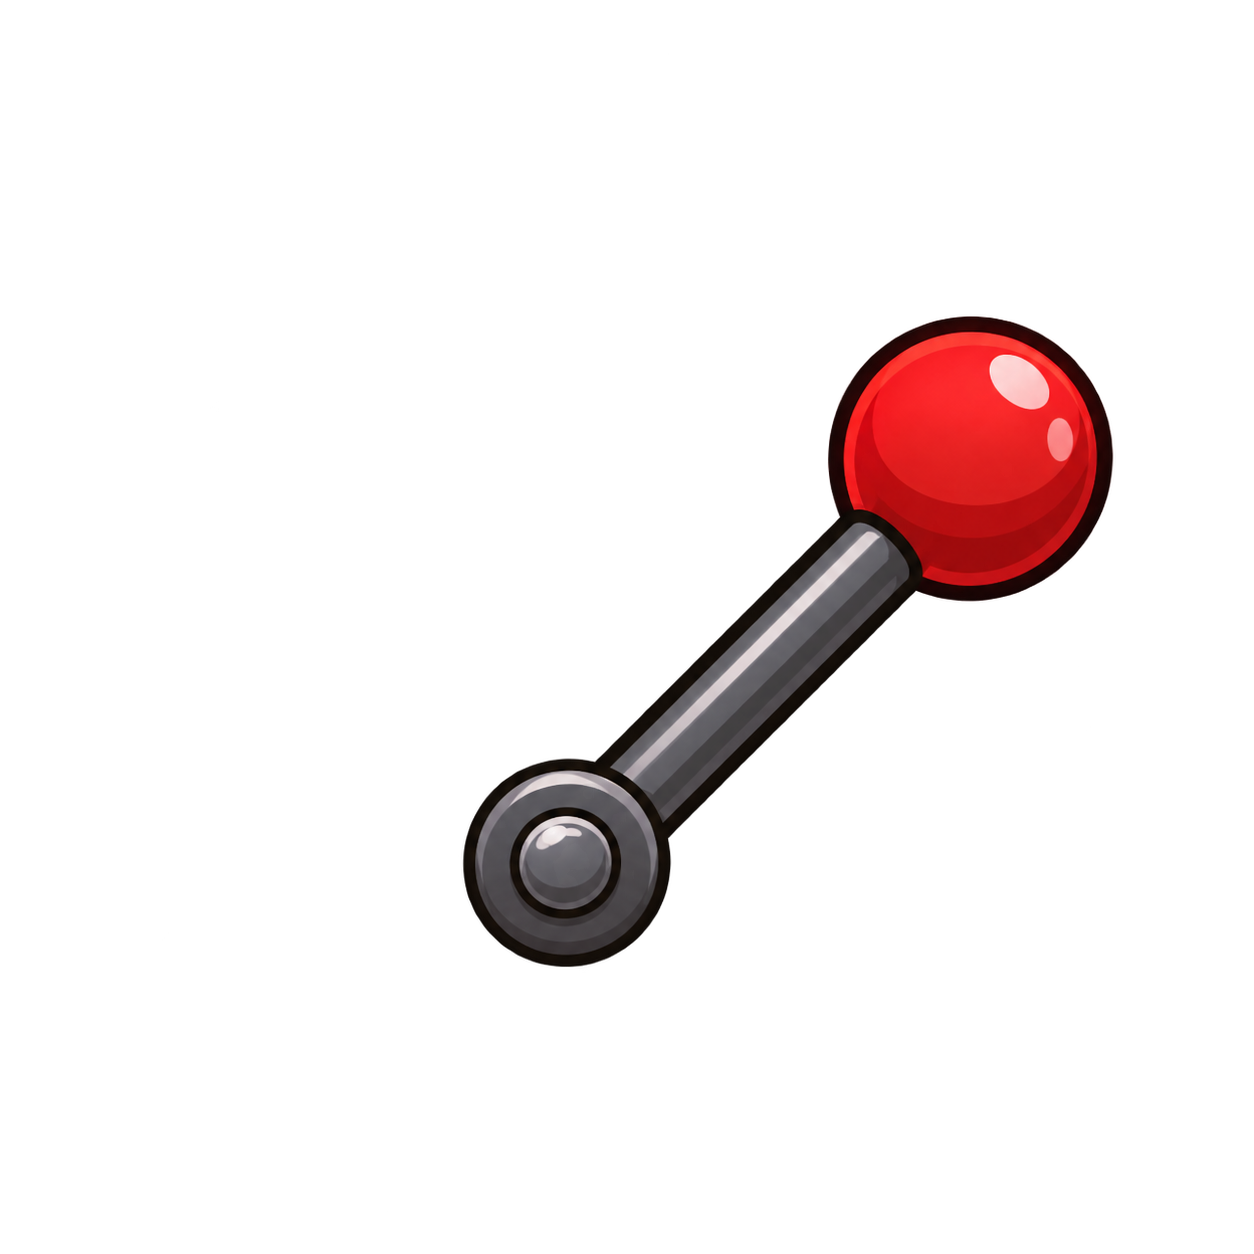
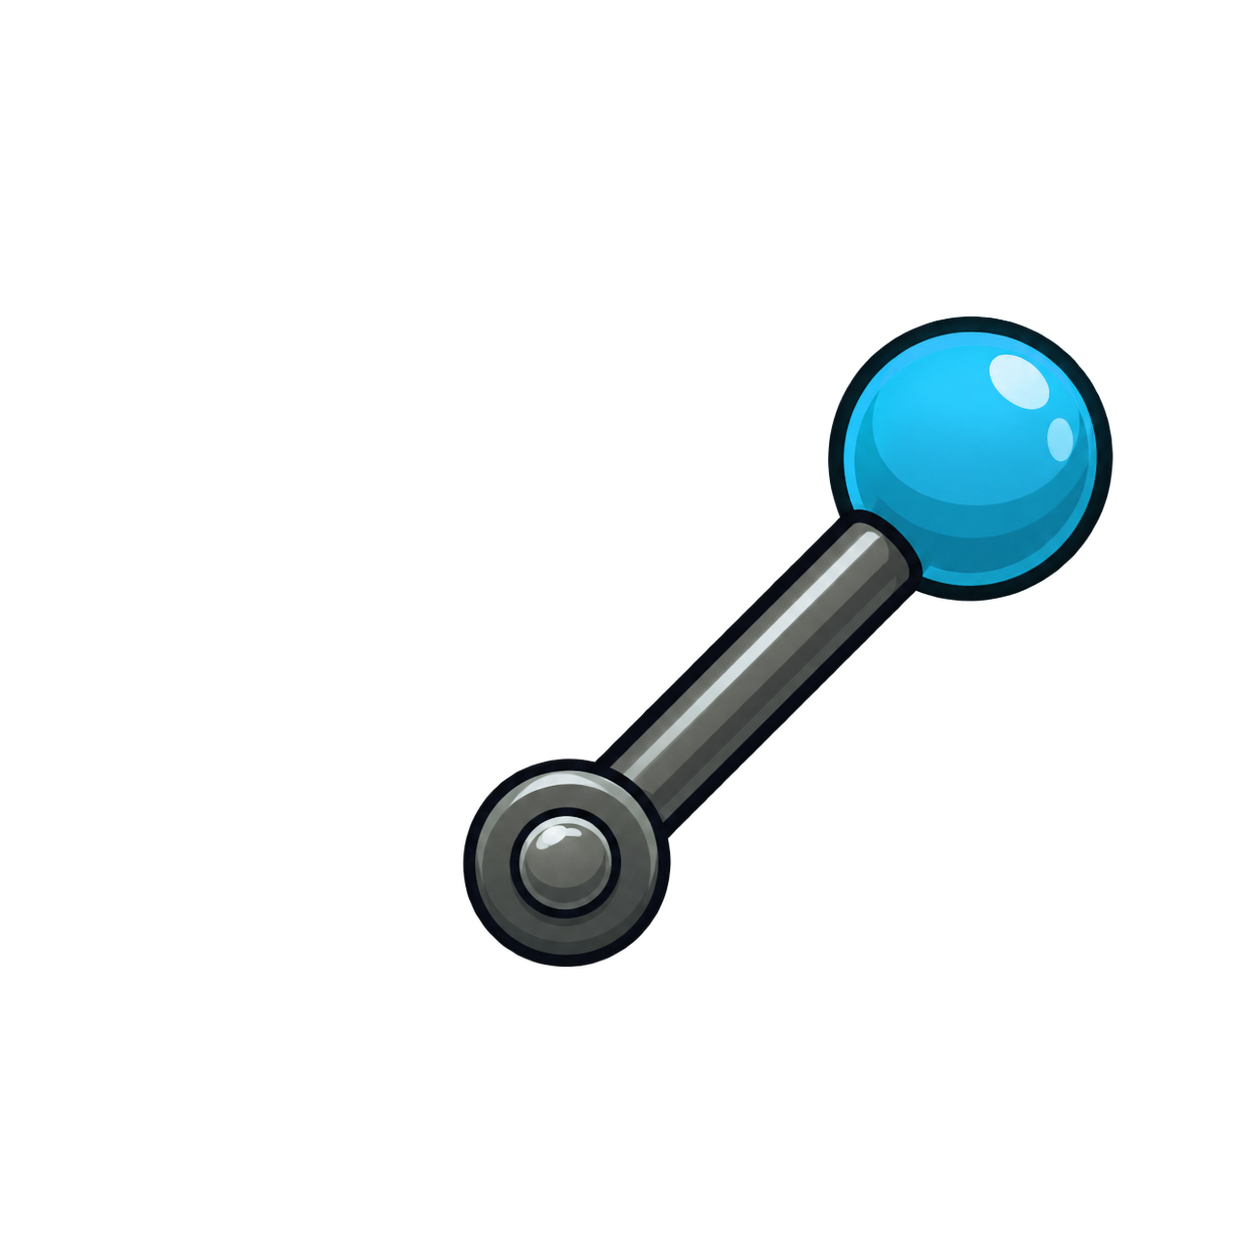
feat(presentation): réserve le rouge à la balle de l'objectif (U19)

Changed region(s): [[0.6531, 0.2488, 0.9019, 0.4665]]

diff --git a/src/presentation/wire-renderer.test.ts b/src/presentation/wire-renderer.test.ts
@@ -1,0 +1,119 @@
+import { describe, expect, it } from 'vitest';
+import type { ProjectedWire } from './control-wires';
+import { drawWireLabels, drawWires, type WireCanvas } from './wire-renderer';
+
+/** Median colour of the goal ball (`ball-base@2x.png`) and of the board (`board-generic-v0.png`). */
+const GOAL_BALL_RED = { r: 222, g: 17, b: 17 };
+const CREAM_BOARD = { r: 250, g: 234, b: 208 };
+const PALETTE_PROBE = 12;
+
+type Rgb = typeof GOAL_BALL_RED;
+
+const parseHex = (hex: string): Rgb => {
+  const match = /^#([0-9a-f]{2})([0-9a-f]{2})([0-9a-f]{2})$/i.exec(hex);
+  if (match === null) throw new Error(`Couleur inattendue : ${hex}`);
+  const [, r = '', g = '', b = ''] = match;
+  return { r: parseInt(r, 16), g: parseInt(g, 16), b: parseInt(b, 16) };
+};
+
+const hueDegrees = ({ r, g, b }: Rgb): number => {
+  const max = Math.max(r, g, b);
+  const delta = max - Math.min(r, g, b);
+  if (delta === 0) return 0;
+  const sector =
+    max === r ? ((g - b) / delta + 6) % 6 : max === g ? (b - r) / delta + 2 : (r - g) / delta + 4;
+  return sector * 60;
+};
+
+const hueDistance = (left: Rgb, right: Rgb): number => {
+  const difference = Math.abs(hueDegrees(left) - hueDegrees(right)) % 360;
+  return Math.min(difference, 360 - difference);
+};
+
+const luminance = ({ r, g, b }: Rgb): number => {
+  const linear = (channel: number): number => {
+    const value = channel / 255;
+    return value <= 0.03928 ? value / 12.92 : ((value + 0.055) / 1.055) ** 2.4;
+  };
+  return 0.2126 * linear(r) + 0.7152 * linear(g) + 0.0722 * linear(b);
+};
+
+const contrast = (left: Rgb, right: Rgb): number => {
+  const [light, dark] = [luminance(left), luminance(right)].sort((a, b) => b - a);
+  return ((light ?? 0) + 0.05) / ((dark ?? 0) + 0.05);
+};
+
+/** Records the core colour of each wire and the badge colour of each label. */
+const recordingCanvas = (): { readonly canvas: WireCanvas; readonly colours: string[] } => {
+  const colours: string[] = [];
+  const canvas: WireCanvas = {
+    globalAlpha: 1,
+    strokeStyle: '',
+    fillStyle: '',
+    lineWidth: 1,
+    lineCap: 'butt',
+    font: '',
+    textAlign: 'start',
+    textBaseline: 'alphabetic',
+    save: () => undefined,
+    restore: () => undefined,
+    beginPath: () => undefined,
+    moveTo: () => undefined,
+    lineTo: () => undefined,
+    arc: () => undefined,
+    stroke: () => {
+      // The casing is the wider, dark stroke; the circuit colour is the core.
+      if (canvas.lineWidth < 3) colours.push(canvas.strokeStyle);
+    },
+    fill: () => {
+      colours.push(canvas.fillStyle);
+    },
+    fillText: () => undefined,
+  };
+  return { canvas, colours };
+};
+
+const circuitColours = (): readonly string[] => {
+  const wires: ProjectedWire[] = Array.from({ length: PALETTE_PROBE }, (_, circuitIndex) => ({
+    id: `wire-${String(circuitIndex)}`,
+    sourceId: `lever-${String(circuitIndex)}`,
+    targetId: `fan-${String(circuitIndex)}`,
+    circuitIndex,
+    label: 'A',
+    from: { x: 0, y: 0 },
+    to: { x: 1, y: 0 },
+  }));
+  const { canvas, colours } = recordingCanvas();
+  const options = { dimmed: false, focusId: undefined };
+  drawWires(canvas, wires, (point) => point, options);
+  drawWireLabels(canvas, wires, (point) => point, options);
+  return [...new Set(colours)];
+};
+
+describe('couleurs des circuits de fils', () => {
+  const palette = circuitColours().map((hex) => [hex, parseHex(hex)] as const);
+
+  it('propose plusieurs couleurs, tracé et pastille de même couleur', () => {
+    expect(palette.length).toBeGreaterThanOrEqual(4);
+  });
+
+  it.each(palette)(
+    '%s ne rappelle pas le rouge réservé à la balle de l’objectif',
+    (_hex, colour) => {
+      expect(hueDistance(colour, GOAL_BALL_RED)).toBeGreaterThanOrEqual(30);
+    },
+  );
+
+  it.each(palette)('%s reste lisible sur le fond crème', (_hex, colour) => {
+    expect(contrast(colour, CREAM_BOARD)).toBeGreaterThanOrEqual(3);
+  });
+
+  it('garde des couleurs bien distinctes entre elles', () => {
+    for (const [leftHex, left] of palette) {
+      for (const [rightHex, right] of palette) {
+        if (leftHex === rightHex) continue;
+        expect(hueDistance(left, right), `${leftHex} / ${rightHex}`).toBeGreaterThanOrEqual(30);
+      }
+    }
+  });
+});

diff --git a/src/ui/ObjectDrawer.tsx b/src/ui/ObjectDrawer.tsx
@@ -3,7 +3,11 @@ import {
   type EditorSession,
 } from '../application/editor-session/editor-session';
 import { inventoryTypeByObjectKind, objectKinds, type ObjectKind } from '../app/object-catalog';
-import { spriteThumbnailPath, type SpriteFamily } from '../presentation/sprite-loader';
+import {
+  spriteThumbnailPath,
+  type SpriteFamily,
+  type SpriteThumbnail,
+} from '../presentation/sprite-loader';
 
 /** The same art the board draws, pre-composed, so a catalogue card looks like the object it places. */
 const beamSizeLabels = { short: 'courte', medium: 'moyenne', long: 'longue' } as const;
@@ -21,6 +25,10 @@ const spriteFamilyByKind: Readonly<Record<ObjectKind, SpriteFamily>> = {
   Barrière: 'barrier',
   Tremplin: 'springboard',
 };
+
+/** A ball from the player's inventory is never the goal's: it is drawn blue. */
+const playerThumbnail = (family: SpriteFamily): SpriteThumbnail =>
+  family === 'ball' ? 'second-ball' : family;
 
 interface ObjectDrawerProps {
   readonly session: EditorSession;
@@ -140,7 +148,11 @@ export function ObjectDrawer({
                 >
                   <span className="object-thumb" aria-hidden="true">
                     <img
-                      src={spriteThumbnailPath(spriteFamilyByKind[kind])}
+                      src={spriteThumbnailPath(
+                        inventoryEntry === undefined
+                          ? spriteFamilyByKind[kind]
+                          : playerThumbnail(spriteFamilyByKind[kind]),
+                      )}
                       alt=""
                       draggable={false}
                     />

diff --git a/src/ui/ObjectDrawer.test.tsx b/src/ui/ObjectDrawer.test.tsx
@@ -1,0 +1,39 @@
+// @vitest-environment jsdom
+
+import { cleanup, render, screen, within } from '@testing-library/react';
+import { afterEach, describe, expect, it } from 'vitest';
+import { createConstructionAttempt } from '../application/construction';
+import { createEditorSession } from '../application/editor-session';
+import { embeddedWorkshopDocument } from '../content/embedded-levels';
+import { ObjectDrawer } from './ObjectDrawer';
+
+const renderDrawer = (mode: 'resolution' | 'creation'): HTMLElement => {
+  render(
+    <ObjectDrawer
+      session={createEditorSession(mode, createConstructionAttempt(embeddedWorkshopDocument))}
+      selectedObject={undefined}
+      selectedInventoryEntryId={undefined}
+      isDrawerOpen
+      isSideLayout={false}
+      isPlacementActive={false}
+      onToggleDrawer={() => undefined}
+      onCloseDrawer={() => undefined}
+      onSelectKind={() => undefined}
+    />,
+  );
+  return screen.getByRole('region', { name: 'Objets disponibles' });
+};
+
+const thumbnailOf = (card: HTMLElement): string =>
+  card.querySelector('img')?.getAttribute('src') ?? '';
+
+describe('ObjectDrawer', () => {
+  afterEach(cleanup);
+
+  it('montre en bleu la balle de l’inventaire du joueur : elle n’est jamais l’objectif', () => {
+    const drawer = renderDrawer('resolution');
+
+    const ball = within(drawer).getByRole('button', { name: /^Balle, quantité/ });
+    expect(thumbnailOf(ball)).toMatch(/\/thumbs\/second-ball\.png$/);
+  });
+});

diff --git a/src/presentation/sprite-loader.ts b/src/presentation/sprite-loader.ts
@@ -50,9 +50,12 @@ export const publicAssetUrl = (path: string, basePath: string): string =>
 
 const deploymentBasePath = import.meta.env.BASE_URL;
 
+/** A family's picture, plus the blue ball: a ball that is not the goal's. */
+export type SpriteThumbnail = SpriteFamily | 'second-ball';
+
 /** One pre-composed picture per family, for catalogue cards (built by `art/build-sprites.py`). */
-export const spriteThumbnailPath = (family: SpriteFamily): string =>
-  publicAssetUrl(`/assets/sprites/thumbs/${family}.png`, deploymentBasePath);
+export const spriteThumbnailPath = (thumbnail: SpriteThumbnail): string =>
+  publicAssetUrl(`/assets/sprites/thumbs/${thumbnail}.png`, deploymentBasePath);
 
 export type DecodedSprite = Readonly<{
   readonly width: number;

diff --git a/src/presentation/wire-renderer.ts b/src/presentation/wire-renderer.ts
@@ -32,9 +32,11 @@ export type WireCanvas = {
 
 /**
  * Circuit colours, in circuit order. Colour is only a second cue: the
- * circuit letter is always drawn at both ends (ADR 0009).
+ * circuit letter is always drawn at both ends (ADR 0009). Red is reserved for
+ * the goal's ball, so no circuit is red or near it; every colour stays
+ * readable on the cream board.
  */
-const CIRCUIT_COLOURS = ['#e53935', '#1e88e5', '#43a047', '#fb8c00', '#8e24aa', '#00897b'];
+const CIRCUIT_COLOURS = ['#1e88e5', '#2e7d32', '#b36b00', '#8e24aa', '#00897b'];
 const CASING_COLOUR = '#1d1f24';
 /** Wire sizes are CSS pixels, like the selection outline: readable at every zoom. */
 const CASING_WIDTH = 4;

diff --git a/src/presentation/sprite-assets.test.ts b/src/presentation/sprite-assets.test.ts
@@ -176,4 +176,10 @@ describe('sprites du plateau', () => {
       expect(publicFile(spriteAssetPath(asset, 2)).byteLength).toBeGreaterThan(0);
     }
   });
+
+  it('fournit la vignette de la balle bleue, celle qui n’est pas l’objectif', () => {
+    const blue = publicFile(spriteThumbnailPath('second-ball'));
+    expect(blue.byteLength).toBeLessThanOrEqual(SPRITE_BUDGET_BYTES);
+    expect(pngSize(blue)).toEqual(pngSize(publicFile(spriteThumbnailPath('ball'))));
+  });
 });

diff --git a/art/build-sprites.py b/art/build-sprites.py
@@ -134,9 +134,9 @@ for folder, prefix in (("ball", "ball"), ("second-ball", "second-ball")):
         export(spin, ball_frame, 0.6, 0.6, f"{prefix}-spin"),
         export(load(f"{folder}/{prefix}-highlight.png"), ball_frame, 0.6, 0.6, f"{prefix}-highlight"),
     ]
-    if prefix == "ball":
-        # La vignette du catalogue reste la balle rouge.
-        save(composite([(layer, (0, 0)) for layer in ball_layers], ball_layers[0].size), THUMBS / "ball.png")
+    # Deux vignettes : la balle rouge (objectif, catalogue de l'auteur) et la
+    # bleue, la seule qu'un joueur pose depuis son inventaire.
+    save(composite([(layer, (0, 0)) for layer in ball_layers], ball_layers[0].size), THUMBS / f"{prefix}.png")
 
 # Panier : arrière et lèvre avant sur le même cadre, empreinte figée 1,5 × 1,1.
 basket_frame = (106, 278, 1148, 1029)

diff --git a/docs/feuille-de-route-luna.md b/docs/feuille-de-route-luna.md
@@ -829,6 +829,11 @@ commencer de ta propre initiative.
 - **U17 — Éditer un niveau de la campagne** : ouvrir un niveau embarqué dans le
   mode auteur, sur une copie (brouillon L26), pour que l’auteur ajuste un niveau
   existant puis l’exporte.
+- **U19 — Le rouge n'appartient qu'à l'objectif** : poignée de levier redessinée,
+  palette des fils sans rouge, balle bleue dans le tiroir du joueur.
+- **U20 — Catalogue de l'atelier** : « Balle rouge (objectif) » et « Balle
+  bleue » ; en mode auteur, le catalogue ajoute n'importe quelle famille à
+  n'importe quel niveau, brouillons de campagne compris.
 
 ## 7. En attente de l’auteur — ne pas commencer
 
@@ -2000,3 +2005,26 @@ Une entrée par tâche, ajoutée en bas, la plus récente en dernier. Format :
 - Pour l’auteur : valider l’emplacement dans la liste, la réouverture du
   brouillon existant (sans « repartir de l’original ») et l’enregistrement à
   chaque commande plutôt que par `decideDraftAutosave`.
+
+### U19 — Le rouge n’appartient qu’à l’objectif — fait — `feat(presentation): réserve le rouge à la balle de l’objectif (U19)`
+
+- Assets : la poignée de levier redessinée par l’auteur est exportée par
+  `art/build-sprites.py` (seuls `lever-handle@2x.png` et `thumbs/lever.png`
+  changent ; géométrie mesurée identique). Le script exporte aussi
+  `thumbs/second-ball.png`, la balle bleue, sur le même cadre que la rouge.
+- Fils : palette des circuits sans rouge ni teinte voisine (bleu, vert, ambre,
+  violet, sarcelle), chacune à ≥ 30° de teinte de la balle rouge et des autres,
+  contraste ≥ 3 sur le fond crème.
+- Tiroir : en mode joueur, la vignette d’une balle de l’inventaire est bleue.
+- Tests ajoutés : `src/presentation/wire-renderer.test.ts` (teinte, contraste,
+  distinction, relevés sur le tracé et les pastilles),
+  `src/ui/ObjectDrawer.test.tsx` (balle bleue du joueur),
+  `sprite-assets.test.ts › fournit la vignette de la balle bleue…`.
+- Échec initial constaté : « #e53935 ne rappelle pas le rouge… » et contraste
+  de `#43a047` (2,79) et `#fb8c00` (2,00) < 3 ; ENOENT sur
+  `thumbs/second-ball.png` ; vignette `thumbs/ball.png` au lieu de la bleue.
+- Tests existants réécrits : aucun.
+- Vérification : `pnpm check` passe (681 tests Vitest ; 47 E2E mobiles réussis,
+  1 ignoré).
+- Captures : hors dépôt, `…/scratchpad/captures/u19/` (niveau 12 avec levier et
+  fil, tiroir joueur avec la balle bleue ; 390 × 844, 844 × 390, 1440 × 900).

diff --git a/docs/etat.md b/docs/etat.md
@@ -94,7 +94,9 @@ pendant le travail.
   appareil au toucher, suppression.
 - Fils de commande droits, sous les objets, translucides (presque effacés en
   simulation), lettres de circuit (`src/presentation/control-wires.ts`,
-  `wire-renderer.ts`).
+  `wire-renderer.ts`). Le rouge est réservé à la balle de l’objectif (U19) : la
+  palette des circuits n’a ni rouge ni teinte voisine, la poignée du levier
+  n’est plus rouge, et la balle du tiroir du joueur est bleue.
 - Routage côté client (ADR 0008) : `/levels`, `/levels/:levelId/play`,
   `/editor`, `/demo` (machine en chaîne qui se résout seule, testée),
   `/settings` (vide) et `/shared` (niveau éphémère décodé depuis le fragment URL).
@@ -259,9 +261,6 @@ pendant le travail.
   travail d’interface.
 - **Câblage réservé à l’auteur** : un levier ou un convoyeur pris dans
   l’inventaire en résolution ne peut pas être relié (ADR 0009).
-- **Vignette de balle toujours rouge** dans le catalogue : une balle posée
-  depuis l’inventaire n’est pas celle de l’objectif et apparaît bleue sur le
-  plateau.
 - **Deux boutons « Réinitialiser »** (libellé à remplacer par « Recommencer », voir
   `mobile-editor-interactions.md`) actifs simultanément après une simulation
   terminée (barre d’actions et bandeau de résultat).

diff --git a/docs/levels/conception-niveaux.md b/docs/levels/conception-niveaux.md
@@ -59,6 +59,8 @@ prototypes et ne servent pas de modèle.
   machine : elles appuient sur des boutons, basculent des leviers, chargent des
   bascules. C'est déjà le cas : toute balle autre que `goal.ballId` est
   dessinée en bleu, avec la même physique ; le format de niveau ne change pas.
+  Le rouge est **réservé à l'objectif** : aucun autre élément du plateau (fils,
+  poignée de levier, vignette d'une balle de l'inventaire) n'est rouge.
 
 ## 3. Repères
 
